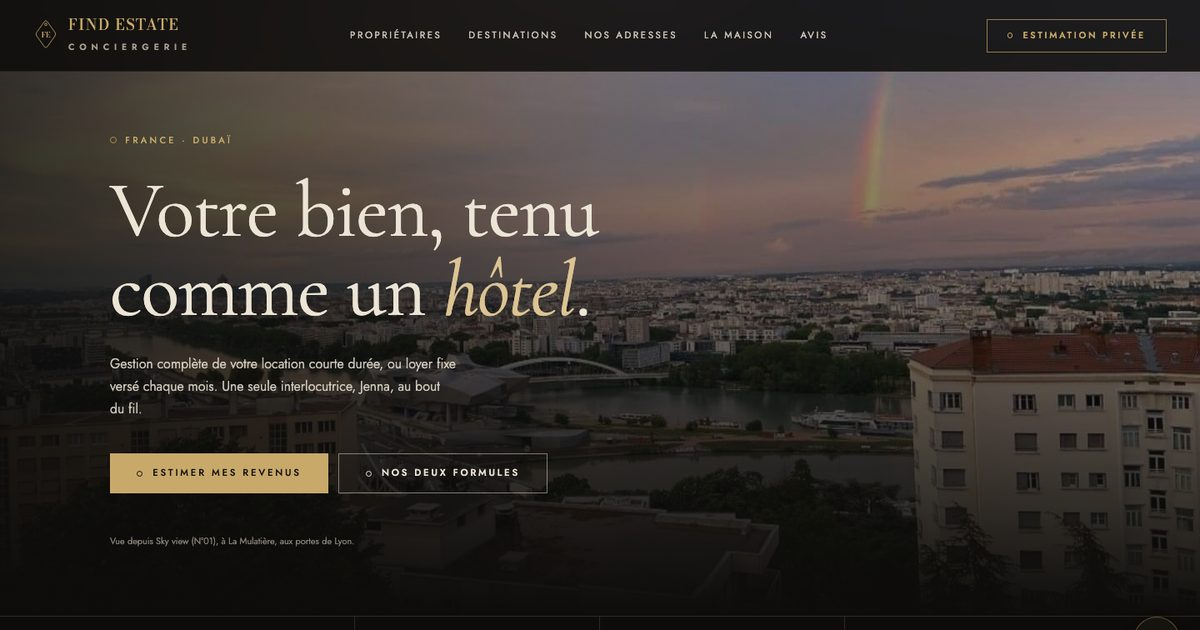
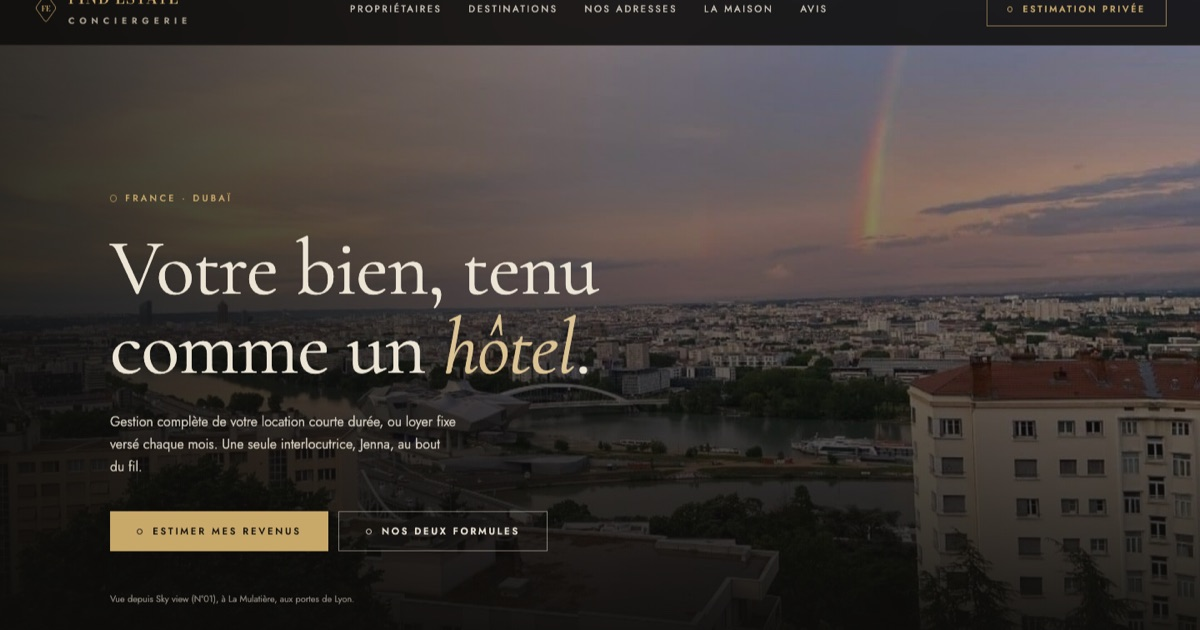
Étude de cas Find Estate : capture recadrée au-dessus du bandeau de chiffres, version 1440 px pour la page, titre Google corrigé et commentaires sur le lien client précisés

diff --git a/src/components/work/sites.data.ts b/src/components/work/sites.data.ts
@@ -97,6 +97,12 @@ export type SiteItem = {
    */
   shot?: string
   /**
+   * Version large de la capture (1440 px), facultative. Servie par
+   * `srcSet` sur la page d'etude de cas, ou la capture occupe toute la
+   * largeur du contenu : la version 960 y serait agrandie et floue.
+   */
+  shotLarge?: string
+  /**
    * Vrai tant que le projet est un exemple de mise en page.
    * Absent = projet reel.
    */
@@ -192,6 +198,7 @@ export const SITE_ITEMS: SiteItem[] = [
       'Conciergerie de location courte durée en France et à Dubaï : pages propriétaires, estimateur de revenus et demandes reliées directement à la conciergerie.',
     domain: 'find-estate.com',
     shot: '/work/sites/find-estate/shot-960.webp',
+    shotLarge: '/work/sites/find-estate/shot-1440.webp',
     tags: ['Refonte', 'Estimateur', 'Formulaires'],
     hue: 40,
     layout: 'editorial',
@@ -201,14 +208,14 @@ export const SITE_ITEMS: SiteItem[] = [
       sector: 'immobilier',
       location: 'Lyon, Paris et Dubaï',
       services: ['creation-site-web'],
-      headline: 'Refonte de Find Estate : un site de conciergerie aussi soigné que ses logements.',
-      seoTitle: 'Refonte du site de Find Estate, conciergerie location courte durée',
+      headline: 'Refonte de Find Estate : le site d’une conciergerie de location courte durée, de Lyon à Dubaï.',
+      seoTitle: 'Find Estate : refonte du site d’une conciergerie',
       seoDescription:
-        'Refonte du site de Find Estate, conciergerie de location courte durée en France et à Dubaï : estimateur de revenus, formulaires, SEO. Étude de cas UltraVision.',
+        'Refonte du site de Find Estate, conciergerie de location courte durée en France et à Dubaï : estimateur de revenus, formulaires et référencement page par page.',
       summary:
         'Pour Find Estate, conciergerie de location courte durée fondée à Lyon en 2023 et présente en France et à Dubaï, UltraVision Agency a réalisé et mis en ligne un nouveau site de 22 pages sur find-estate.com : pages pour les propriétaires, estimateur de revenus en cinq étapes, formulaires reliés à la conciergerie et référencement page par page.',
       execution:
-        "Vingt-deux pages : formules pour les propriétaires, estimateur de revenus en cinq étapes avec des repères de marché sourcés, destinations, logements, avis et contact. Chaque demande est enregistrée et transmise par e-mail à la conciergerie, avec un consentement explicite. Mentions légales et politique de confidentialité rédigées pour le site, polices auto-hébergées. Refonte visuelle d'après une maquette : Cormorant Garamond et Jost, angles droits, noir et or. Photos : celles des annonces Airbnb de la conciergerie, choisies et ordonnées pour le site. Les notes Airbnb sont affichées avec leur nombre d'avis, et datées sur les fiches des logements et la page Avis.",
+        "Vingt-deux pages : formules pour les propriétaires, estimateur de revenus en cinq étapes avec des repères de marché sourcés, destinations, logements, avis et contact. Chaque demande est enregistrée et transmise par e-mail à la conciergerie, avec un consentement explicite. Mentions légales et politique de confidentialité rédigées pour le site, polices auto-hébergées. Refonte visuelle d'après une maquette : Cormorant Garamond et Jost, angles droits ; palette noir et or. Photos : celles des annonces Airbnb de la conciergerie, choisies et ordonnées pour le site. Les notes Airbnb sont affichées avec leur nombre d'avis, et datées sur les fiches des logements et la page Avis.",
       tools: ['TanStack Start', 'Cloudflare Workers', 'Cloudflare D1'],
       website: 'https://find-estate.com',
     },

diff --git a/src/routes/realisations.$slug.tsx b/src/routes/realisations.$slug.tsx
@@ -30,7 +30,7 @@ import { pageHead, pageUrl, siteNode, videoNode } from "@/lib/seo";
  * probleme, strategie, execution, outils — mais chaque bloc n'apparait
  * que si le champ correspondant est rempli dans `caseStudy`.
  *
- * LE SEUL LIEN SORTANT DU SITE est ici : `caseStudy.website`, affiche
+ * LE SEUL LIEN VERS LE SITE D'UN CLIENT est ici : `caseStudy.website`, affiche
  * dans la fiche « En bref ». Il est suivi (rel="noopener", sans
  * nofollow) : c'est un site que l'agence a livre et signe, avec
  * l'accord du client. Voir la REGLE 1 de sites.data.ts.
@@ -139,7 +139,7 @@ function CasePage() {
       value: film ? `Vidéo verticale 9:16 · ${film.durationSec} s` : "Site web",
     },
     /*
-      LE SEUL LIEN SORTANT DU SITE. Suivi, volontairement : pas de
+      LE SEUL LIEN VERS LE SITE D'UN CLIENT. Suivi, volontairement : pas de
       nofollow ni de noreferrer, seulement noopener pour l'ouverture dans
       un nouvel onglet.
     */
@@ -230,6 +230,8 @@ function CasePage() {
                 >
                   <img
                     src={site.shot}
+                    srcSet={site.shotLarge ? `${site.shot} 960w, ${site.shotLarge} 1440w` : undefined}
+                    sizes={site.shotLarge ? "(min-width: 1280px) 1184px, 100vw" : undefined}
                     width={960}
                     height={546}
                     alt={`Page d'accueil du site de ${c.client}${c.website ? ` (${domainOf(c.website)})` : ""}, en capture d'écran.`}

diff --git a/src/components/work/work.data.ts b/src/components/work/work.data.ts
@@ -157,10 +157,11 @@ export type CaseStudy = {
   /**
    * Adresse publique du site livre (https://...).
    *
-   * C'est le SEUL lien sortant du site de l'agence : il n'apparait que
-   * sur la page /realisations/<slug>, dans la fiche « En bref », et
-   * nulle part ailleurs — ni sur les cartes, ni dans la grille des
-   * sites. A renseigner uniquement avec l'accord du client, et
+   * C'est le seul lien vers le site d'un client : il n'est cliquable
+   * que sur la page /realisations/<slug>, dans la fiche « En bref » —
+   * ni sur les cartes, ni dans la grille des sites. L'adresse figure
+   * aussi, en texte, dans llms-full.txt et dans les donnees structurees
+   * de la page (noeud WebSite). A renseigner uniquement avec l'accord du client, et
    * uniquement pour un domaine de production : jamais une adresse de
    * previsualisation ou d'hebergeur.
    */

diff --git a/src/lib/machine-files.ts b/src/lib/machine-files.ts
@@ -261,7 +261,7 @@ export function buildLlmsTxt(): string {
     "",
     "## Ce que nous ne faisons pas",
     "",
-    "Nous ne publions pas de témoignages ni de résultats que nous ne pouvons pas prouver. Les chiffres affichés sur les réalisations proviennent des gestionnaires de publicités. Si une information manque sur le site, c'est qu'elle n'est pas encore vérifiable — pas qu'elle est cachée.",
+    "Nous ne publions pas de témoignages ni de résultats que nous ne pouvons pas prouver. Les chiffres de performance affichés sur les réalisations proviennent des gestionnaires de publicités. Si une information manque sur le site, c'est qu'elle n'est pas encore vérifiable — pas qu'elle est cachée.",
     "",
     "## Optional",
     "",
